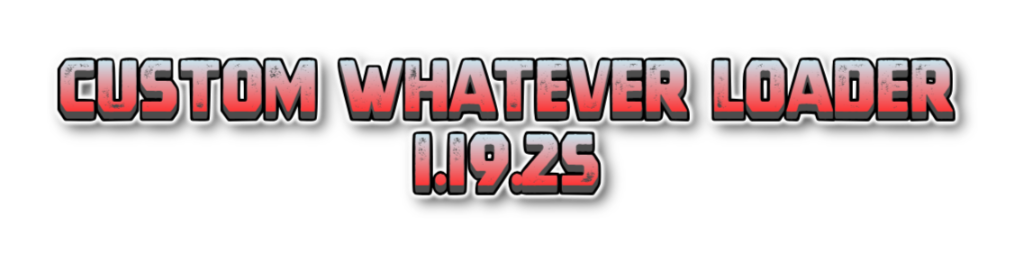
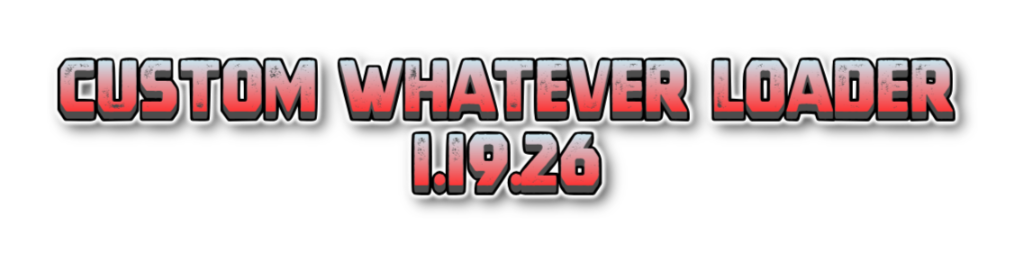
fix(CWL): `CustomChara` gun eq fix & cleanups

Changed region(s): [[0.375, 0.4848, 0.5938, 0.7576]]

diff --git a/CustomWhateverLoader/API/Drama/DramaExpansion.cs b/CustomWhateverLoader/API/Drama/DramaExpansion.cs
@@ -2,6 +2,7 @@
 using System.Collections.Generic;
 using System.Linq;
 using System.Runtime.CompilerServices;
+using Cwl.Helper;
 using Cwl.Helper.Runtime;
 using Cwl.Helper.Runtime.Exceptions;
 
@@ -82,11 +83,22 @@ public partial class DramaExpansion : DramaOutcome
 
     public static bool add_item(DramaManager dm, Dictionary<string, string> line, params string[] parameters)
     {
-        if (parameters is not [{ } id, { } material]) {
+        if (parameters is not [{ } id, { } material, { } lv, { } num] || !int.TryParse(lv, out var itemLv)) {
             throw new DramaActionArgumentException(parameters);
         }
 
-        return false;
+        if (dm.sequence.GetActor(line["actor"]) is not { owner.chara: { } actor }) {
+            throw new DramaActionInvokeException(nameof(actor));
+        }
+
+        if (!int.TryParse(num, out var itemNum)) {
+            itemNum = 1;
+        }
+
+        var item = ThingGen.Create(id, ReverseId.Material(material), itemLv).SetNum(itemNum);
+        actor.AddThing(item);
+
+        return item.id != "869";
     }
 
     public static bool affinity_check(DramaManager dm, Dictionary<string, string> line, params string[] parameters)
@@ -187,7 +199,7 @@ public partial class DramaExpansion : DramaOutcome
         return true;
     }
 
-    public static bool portrait_reset(DramaManager dm, Dictionary<string, string> line, params string[] parameters)
+    internal static bool portrait_reset(DramaManager dm, Dictionary<string, string> line, params string[] parameters)
     {
         if (dm.sequence.GetActor(line["actor"]) is { owner: { } owner }) {
             owner.idPortrait = owner.chara.GetIdPortrait();

diff --git a/CustomWhateverLoader/API/Custom/Character/CustomChara.cs b/CustomWhateverLoader/API/Custom/Character/CustomChara.cs
@@ -96,10 +96,26 @@ public partial class CustomChara : Chara
             }
         }
 
-        _delayedCharaImport.Add(r.id, new(import, zones.ToArray(), equips.ToArray(), things.ToArray()));
+        _delayedCharaImport[r.id] = new(import, zones.ToArray(), equips.ToArray(), things.ToArray());
     }
 
-    public static bool CreateTaggedChara(string id, out Chara? chara, string[]? equips = null, string[]? things = null)
+    public static bool CreateTaggedChara(string id, out Chara? chara)
+    {
+        chara = null;
+        if (!sources.charas.map.TryGetValue(id, out var row)) {
+            return false;
+        }
+
+        AddChara(row);
+        return _delayedCharaImport.TryGetValue(id, out var import) && CreateTaggedChara(id, out chara, import);
+    }
+
+    public static bool CreateTaggedChara(string id, out Chara? chara, CharaImport import)
+    {
+        return CreateTaggedChara(id, out chara, import.Equips, import.Things);
+    }
+
+    public static bool CreateTaggedChara(string id, out Chara? chara, string[]? equips, string[]? things = null)
     {
         chara = null;
 
@@ -139,10 +155,5 @@ public partial class CustomChara : Chara
             return false;
             // noexcept
         }
-    }
-
-    public static bool CreateTaggedChara(string id, out Chara? chara, CharaImport import)
-    {
-        return CreateTaggedChara(id, out chara, import.Equips, import.Things);
     }
 }

diff --git a/CustomWhateverLoader/API/Custom/Character/AddEqOrThing.cs b/CustomWhateverLoader/API/Custom/Character/AddEqOrThing.cs
@@ -21,10 +21,14 @@ public partial class CustomChara
 
                 thing = chara.EQ_ID(id, r: rarity);
                 thing.c_IDTState = 0;
+
                 if (!thing.isDestroyed) {
                     thing.ChangeRarity(rarity);
                     CwlMod.Log<CustomChara>("cwl_log_added_eq".Loc(id, thing.rarity.ToString(), chara.id));
-                    return;
+
+                    if (thing.isEquipped) {
+                        return;
+                    }
                 }
             }
 

diff --git a/CustomWhateverLoader/Helper/Unity/ProgressIndicator.cs b/CustomWhateverLoader/Helper/Unity/ProgressIndicator.cs
@@ -183,7 +183,7 @@ public class ProgressIndicator : EMono, IPointerClickHandler, IPointerEnterHandl
             }
 
             if (_onHoverUpdate is not null) {
-                text += Hovering ? $"\n{_onHoverUpdate()}" : $"\n{_hoverDetailPrompt}";
+                text += Hovering ? $"{_onHoverUpdate()}" : $"{_hoverDetailPrompt}";
             }
 
             Pop.SetText(text, sprite, color ?? default(Color));

diff --git a/CustomWhateverLoader/Helper/Runtime/Exceptions/ExceptionProfile.cs b/CustomWhateverLoader/Helper/Runtime/Exceptions/ExceptionProfile.cs
@@ -61,10 +61,6 @@ public class ExceptionProfile(string stackTrace)
         var lineCount = 0;
 
         foreach (var frame in stackTrace.SplitNewline()) {
-            if (MonoFrame.HasFrame(frame)) {
-                continue;
-            }
-
             var mono = MonoFrame.GetFrame(frame).Parse();
             switch (mono.frameType) {
                 case MonoFrame.StackFrameType.Unknown:

diff --git a/CustomWhateverLoader/Loader/CustomWhateverLoader.cs b/CustomWhateverLoader/Loader/CustomWhateverLoader.cs
@@ -10,7 +10,7 @@ public static class ModInfo
     // for legacy reason
     public const string Guid = "dk.elinplugins.customdialogloader";
     public const string Name = "Custom Whatever Loader";
-    public const string Version = "1.19.25";
+    public const string Version = "1.19.26";
 }
 
 [BepInPlugin(ModInfo.Guid, ModInfo.Name, ModInfo.Version)]
